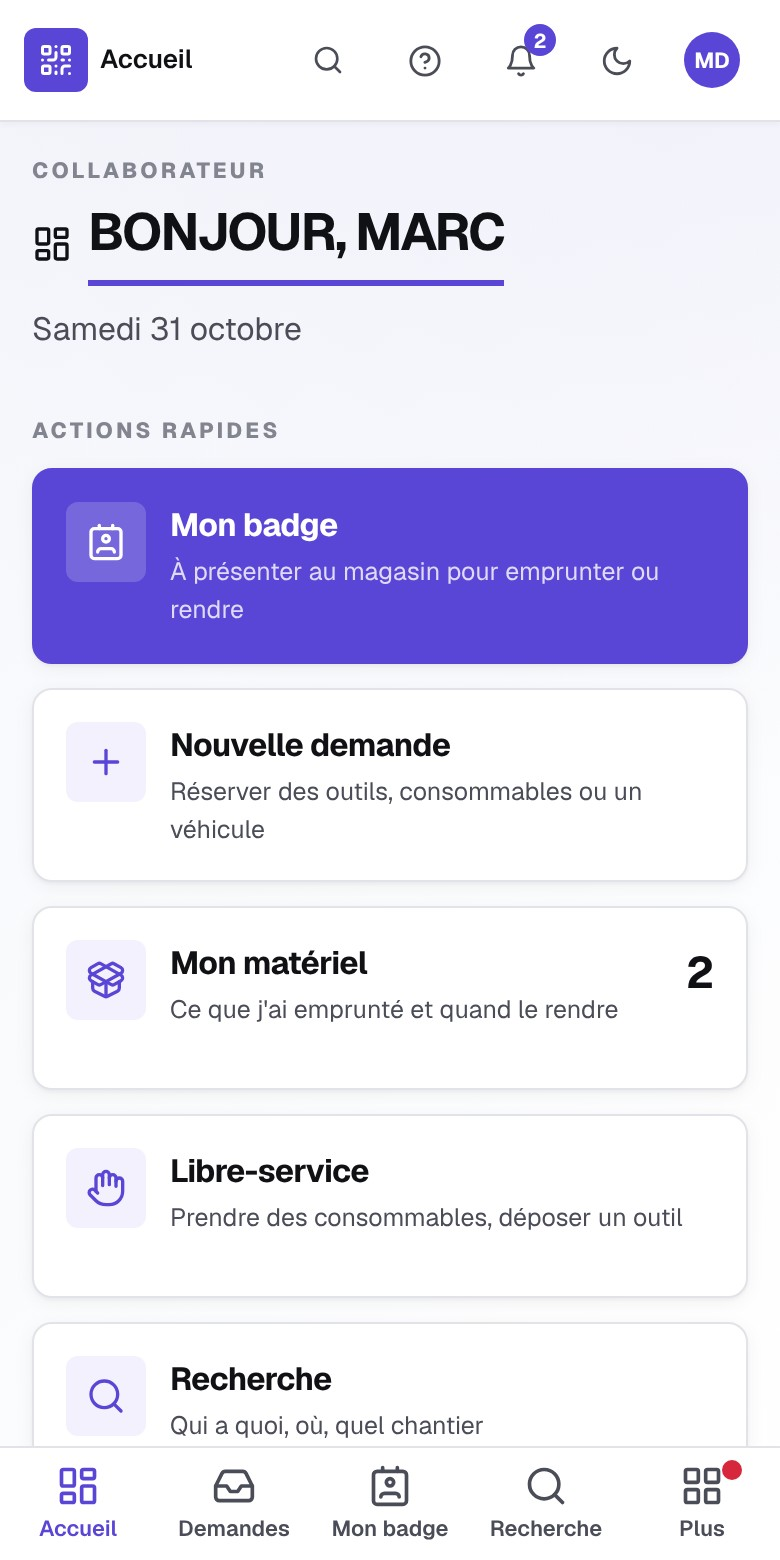
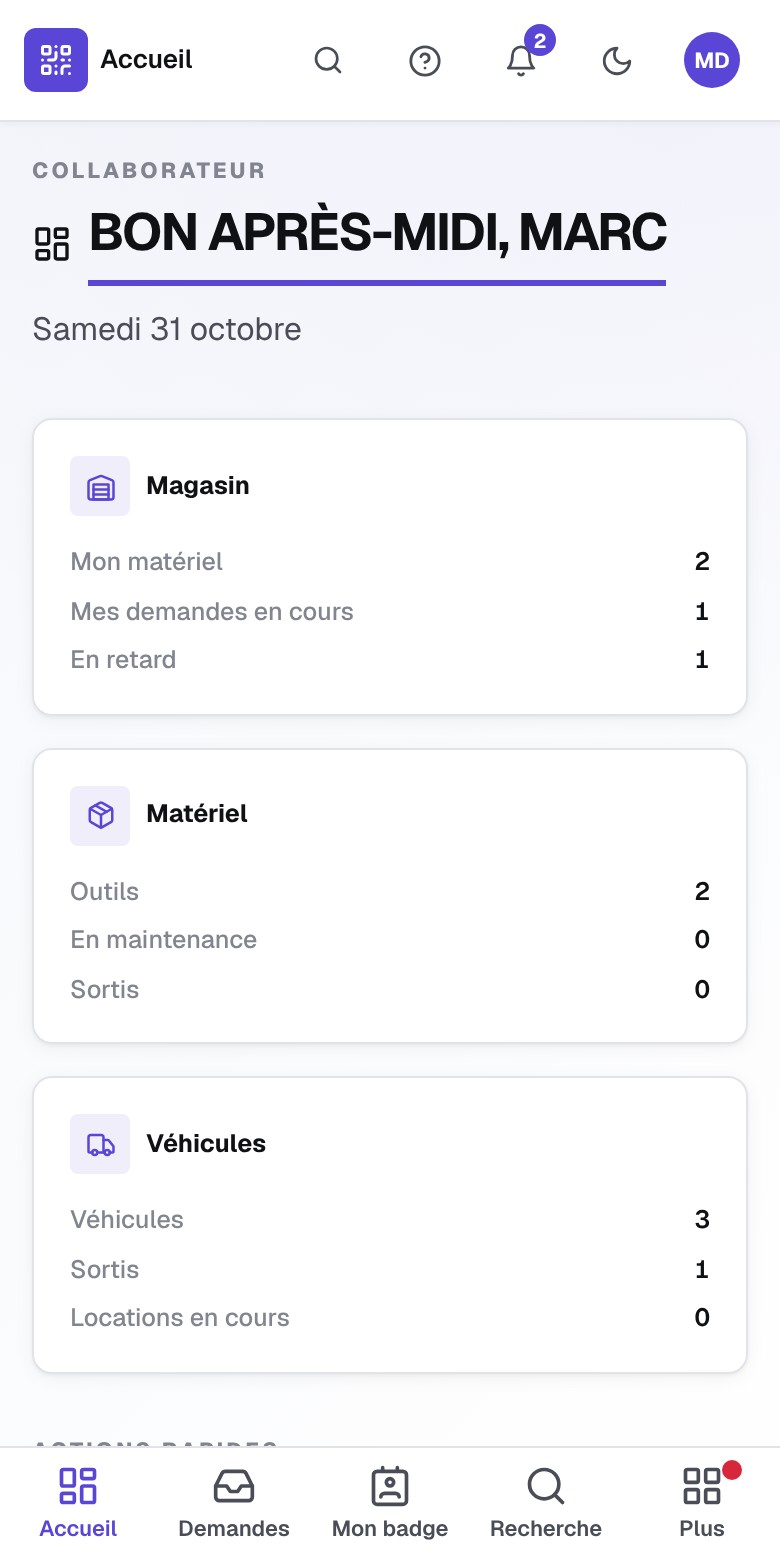
Lot 23 : accueil en grille de modules comme Mannyx
Une carte par module accessible avec 3 chiffres clés ; vue propre au
collaborateur (son matériel, ses demandes). Traductions, aide et captures.

Claude-Session: https://claude.ai/code/session_01RRsPCHnG58G4WmUL2CyKHt

diff --git a/src/components/home/ModuleGrid.tsx b/src/components/home/ModuleGrid.tsx
@@ -1,0 +1,79 @@
+import React, { useEffect, useState } from 'react';
+import { Link } from 'react-router-dom';
+import { MxModuleCard, type MxModuleCardMetric } from '../mx/MxModuleCard';
+import { useNavSpaces } from '../../lib/useNavSpaces';
+import { useApp } from '../../contexts/AppContext';
+import { useAuth } from '../../contexts/AuthContext';
+import { supabase } from '../../lib/supabase';
+
+// Accueil comme le tableau de bord de Mannyx : une carte par module accessible, avec 3 chiffres.
+// Pour un collaborateur, la carte Magasin montre ses propres chiffres (son matériel, ses demandes).
+const ModuleGrid: React.FC<{ toApprove: number; toPrepare: number; myRequests: number }> = ({ toApprove, toPrepare, myRequests }) => {
+  const spaces = useNavSpaces();
+  const { equipment, checkouts, consumableStock, vehicles, users, depots } = useApp();
+  const { profile, can } = useAuth();
+  const [openSites, setOpenSites] = useState<number | null>(null);
+  const [openRentals, setOpenRentals] = useState<number | null>(null);
+
+  useEffect(() => {
+    supabase.from('sites').select('id', { count: 'exact', head: true }).eq('status', 'open')
+      .then(({ count }) => setOpenSites(count ?? 0));
+    supabase.from('rentals').select('id', { count: 'exact', head: true }).is('returned_on', null)
+      .then(({ count }) => setOpenRentals(count ?? 0));
+  }, []);
+
+  const now = Date.now();
+  const active = checkouts.filter(c => c.status === 'active' || c.status === 'overdue');
+  const late = active.filter(c => c.status === 'overdue' || (c.dueDate && new Date(c.dueDate).getTime() < now));
+  const mine = active.filter(c => c.userId === profile?.id);
+  const tools = equipment.filter(e => e.itemType !== 'consumable' && e.status !== 'retired');
+  const consumables = equipment.filter(e => e.itemType === 'consumable');
+  const low = consumableStock.filter(s => s.minQuantity > 0 && s.quantity < s.minQuantity).length;
+  const staff = can('scan') || can('view_all') || can('approve');
+  const metric = (id: string, label: string, value: number | null): MxModuleCardMetric => ({
+    id, label, value: value === null ? '' : value.toLocaleString('fr-CH'), loading: value === null,
+  });
+
+  const metrics: Record<string, MxModuleCardMetric[]> = {
+    store: staff
+      ? [metric('prep', 'Demandes à préparer', toPrepare), metric('out', 'Outils sortis', active.length), metric('late', 'Retours en retard', late.length)]
+      : [metric('mine', 'Mon matériel', mine.length), metric('req', 'Mes demandes en cours', myRequests), metric('late', 'En retard', mine.filter(c => late.includes(c)).length)],
+    tools: [
+      metric('tools', 'Outils', tools.length),
+      metric('maint', 'En maintenance', tools.filter(e => e.status === 'maintenance').length),
+      metric('out', 'Sortis', tools.filter(e => e.status === 'checked-out').length),
+    ],
+    supplies: [metric('items', 'Consommables', consumables.length), metric('low', 'Sous le seuil', low), metric('depots', 'Dépôts', depots.length)],
+    fleet: [
+      metric('fleet', 'Véhicules', vehicles.filter(v => v.status !== 'retired').length),
+      metric('used', 'Sortis', vehicles.filter(v => v.status === 'in_use').length),
+      metric('rentals', 'Locations en cours', openRentals),
+    ],
+    sites: [metric('sites', 'Chantiers en cours', openSites), metric('out', 'Outils sortis', active.length), metric('late', 'Retours en retard', late.length)],
+    people: [
+      metric('people', 'Personnes actives', users.filter(u => u.active !== false).length),
+      metric('temp', 'Intérimaires', users.filter(u => u.personKind === 'temp' && u.active !== false).length),
+      metric('never', 'Jamais connectées', users.filter(u => !u.linked && u.active !== false).length),
+    ],
+    steering: [metric('approve', 'Demandes à valider', toApprove), metric('late', 'Retours en retard', late.length), metric('low', 'Consommables sous le seuil', low)],
+    settings: [metric('depots', 'Dépôts', depots.length), metric('people', 'Utilisateurs', users.length), metric('items', 'Articles', equipment.length)],
+  };
+
+  const cards = spaces.filter(s => metrics[s.id]);
+  if (cards.length === 0) return null;
+  return (
+    <div className="grid gap-[calc(16px*var(--mx-scale,1))]" style={{ gridTemplateColumns: 'repeat(auto-fill, minmax(calc(260px * var(--mx-scale, 1)), 1fr))' }}>
+      {cards.map(space => (
+        <MxModuleCard
+          key={space.id}
+          icon={space.icon}
+          title={space.label}
+          metrics={metrics[space.id]}
+          renderLink={linkProps => <Link to={space.links[0].to} {...linkProps} />}
+        />
+      ))}
+    </div>
+  );
+};
+
+export default ModuleGrid;

diff --git a/src/pages/Home.tsx b/src/pages/Home.tsx
@@ -13,6 +13,7 @@ import { REQUEST_STATUS, formatPeriod } from '../lib/requests';
 import { RequestOverview } from '../types';
 import Today from './Today';
 import PageTitle from '../components/common/PageTitle';
+import ModuleGrid from '../components/home/ModuleGrid';
 
 interface Action {
   to: string;
@@ -142,6 +143,11 @@ const Home: React.FC = () => {
           </p>
         </div>
       </header>
+
+      {/* Grille de modules, comme le tableau de bord de Mannyx ; la vue propre au rôle suit dessous */}
+      <section aria-label="Modules" className="lg:!mt-0">
+        <ModuleGrid toApprove={toApprove} toPrepare={toPrepare} myRequests={myRequests.length} />
+      </section>
 
       <section aria-labelledby="quick-actions">
         <h2 id="quick-actions" className="mx-section-label mb-3">Actions rapides</h2>

diff --git a/src/help/articles/demarrage.ts b/src/help/articles/demarrage.ts
@@ -126,7 +126,7 @@ export const DEMARRAGE: HelpArticle[] = [
         id: 'matin',
         title: 'Le matin',
         steps: [
-          { text: 'Ouvre l\'Accueil. Les tuiles du haut sont tes raccourcis ; « Aujourd\'hui au magasin » compte ce qui t\'attend.', shot: 'accueil-magasinier' },
+          { text: 'Ouvre l\'Accueil. En haut, une carte par module avec ses chiffres clés (clique dessus pour l\'ouvrir) ; dessous, tes actions rapides, puis « Aujourd\'hui au magasin ».', shot: 'accueil-magasinier' },
           { text: 'Clique sur « Demandes à préparer » et prépare chaque demande du jour (voir « Préparer une demande »).' },
           { text: 'Clique sur « Boîte de retour » s\'il y a un chiffre : contrôle les outils déposés la veille au soir.' },
         ],
